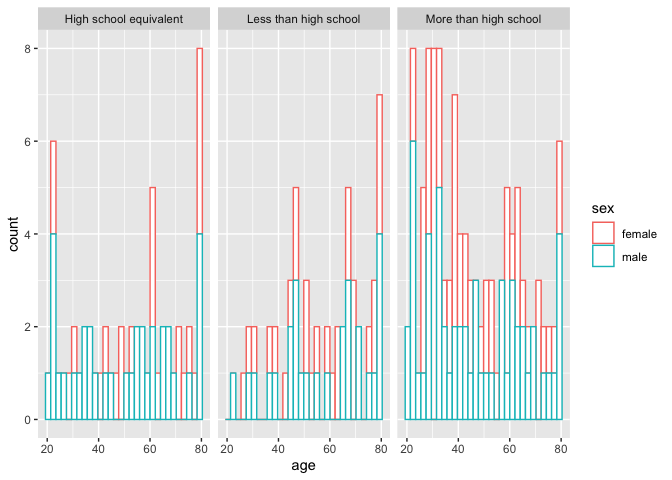
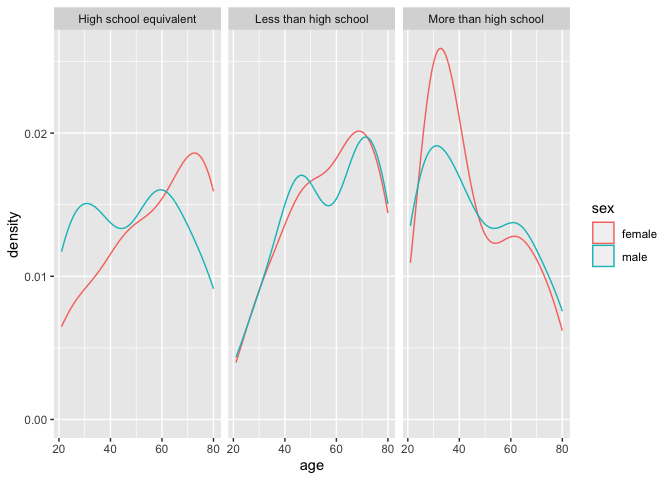
commit on problem 2 and problem 3

diff --git a/p8105_hw3_xw2962.md b/p8105_hw3_xw2962.md
@@ -376,9 +376,10 @@ distribution_df = brfss_smart_df|>
     year == 2006 | year == 2010)
 
 distribution_plot= distribution_df |>
-  ggplot(aes(x = data_value, fill = locationdesc)) + 
-  geom_density(alpha = .3, adjust = .75)+
-  facet_grid(. ~ year)
+  ggplot(aes(x = locationdesc, y = data_value, fill = response)) + 
+  geom_col(position = 'stack', width = 0.6)+
+  facet_grid(. ~ year)+
+  coord_flip()
 
 distribution_plot
 ```
@@ -504,7 +505,7 @@ sex_edu_age_df  = merged_demo_accel_df|>
 
 sex_edu_age_plot = merged_demo_accel_df|>
   ggplot(aes(x = age, color = sex))+
-  geom_histogram(fill = "white")+
+  geom_density()+
   facet_grid(. ~ education)
 sex_edu_age_plot
 ```
